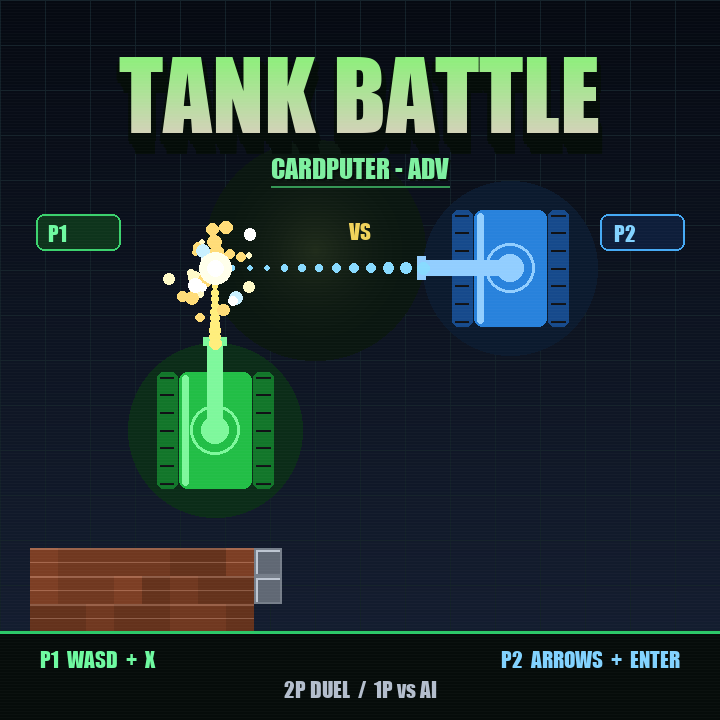
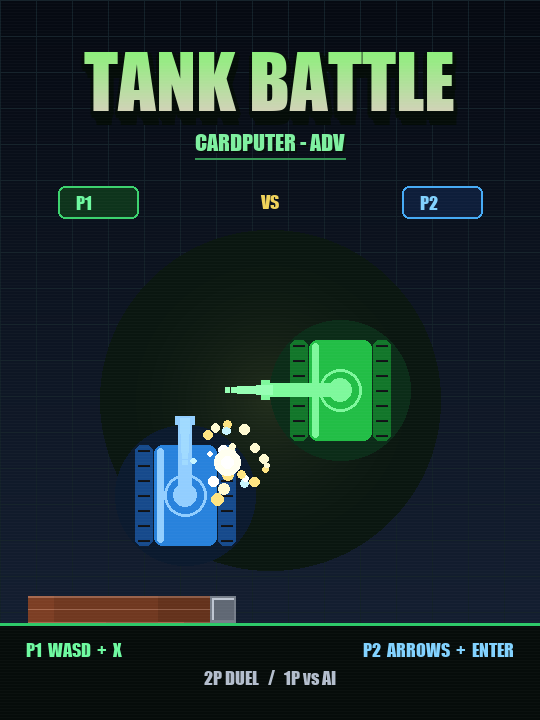
Update cover: vertical 540x720 layout, fix trajectory direction
- Resize cover to 3:4 vertical format for M5Burner
- Bullets now travel along barrel direction (P1 left, P2 up)
- Square bullet particles for better visibility

diff --git a/make_cover.py b/make_cover.py
@@ -1,73 +1,61 @@
 # -*- coding: utf-8 -*-
 """
-Tank Battle - Cardputer ADV  封面
-720x720 (M5Burner 封面规格)
-双人对战主题: 绿坦克 vs 蓝坦克
+Tank Battle - Cardputer ADV  封面 (竖版 540x720)
+M5Burner 封面框为竖版比例
 """
 from PIL import Image, ImageDraw, ImageFont
 import random, math, os
 
-W = H = 720
+W, H = 540, 720
 img = Image.new("RGB", (W, H), (8, 10, 16))
 d = ImageDraw.Draw(img)
 
 # ---------------- 背景渐变 ----------------
 for y in range(H):
     t = y / H
-    r = int(6 + 16 * t)
-    g = int(10 + 22 * t)
-    b = int(18 + 34 * t)
-    d.line([(0, y), (W, y)], fill=(r, g, b))
+    d.line([(0, y), (W, y)], fill=(int(6 + 16 * t), int(10 + 24 * t), int(18 + 36 * t)))
 
 # 战术网格
-for x in range(0, W, 45):
+for x in range(0, W, 36):
     d.line([(x, 0), (x, H)], fill=(18, 32, 40), width=1)
-for y in range(0, H, 45):
+for y in range(0, H, 36):
     d.line([(0, y), (W, y)], fill=(18, 32, 40), width=1)
 
-# 中央暖色光晕（小而柔和，只衬托子弹交汇点）
-_glow_r = 110
-for _i in range(_glow_r, 0, -2):
-    _t = 1 - _i / _glow_r
-    _a = int(22 * _t * _t)
-    d.ellipse([315 - _i, 250 - _i, 315 + _i, 250 + _i],
+# 中央光晕
+_gr = 170
+for _i in range(_gr, 0, -2):
+    _t = 1 - _i / _gr
+    _a = int(24 * _t * _t)
+    d.ellipse([W // 2 - _i, 400 - _i, W // 2 + _i, 400 + _i],
               fill=(10 + _a, 22 + _a, 16 + _a // 2))
 
 
 # ---------------- 绘制函数 ----------------
-def draw_tank(d, cx, cy, s, body, body2, barrel, facing="up", glow=None):
-    """绘制坦克 (俯视)"""
+def draw_tank(cx, cy, s, body, body2, barrel, facing="up", glow=None):
     if glow:
-        d.ellipse([cx - s * 1.5, cy - s * 1.5, cx + s * 1.5, cy + s * 1.5], fill=glow)
+        d.ellipse([cx - s * 1.4, cy - s * 1.4, cx + s * 1.4, cy + s * 1.4], fill=glow)
 
-    # 履带
     tw_ = s * 0.34
     tl_h = s * 1.0
     d.rounded_rectangle([cx - s, cy - tl_h, cx - s + tw_, cy + tl_h], radius=6, fill=body2)
     d.rounded_rectangle([cx + s - tw_, cy - tl_h, cx + s, cy + tl_h], radius=6, fill=body2)
 
-    # 履带纹
     n = 7
     for i in range(n):
         yy = cy - tl_h + 5 + i * (2 * tl_h - 10) / (n - 1)
         d.line([(cx - s + 3, yy), (cx - s + tw_ - 3, yy)], fill=(16, 18, 22), width=2)
         d.line([(cx + s - tw_ + 3, yy), (cx + s - 3, yy)], fill=(16, 18, 22), width=2)
 
-    # 车体
     bw = s * 0.62
     d.rounded_rectangle([cx - bw, cy - tl_h, cx + bw, cy + tl_h], radius=8, fill=body)
-    # 车体高光
     d.rounded_rectangle([cx - bw + 3, cy - tl_h + 3, cx - bw + 9, cy + tl_h - 3],
                         radius=3, fill=barrel)
 
-    # 炮塔
     tr = s * 0.42
     d.ellipse([cx - tr, cy - tr, cx + tr, cy + tr], fill=body, outline=barrel, width=3)
-    d.ellipse([cx - tr * 0.55, cy - tr * 0.55, cx + tr * 0.55, cy + tr * 0.55],
-              fill=barrel)
+    d.ellipse([cx - tr * 0.55, cy - tr * 0.55, cx + tr * 0.55, cy + tr * 0.55], fill=barrel)
 
-    # 炮管
-    bl = s * 1.5
+    bl = s * 1.45
     bwid = s * 0.13
     if facing == "up":
         d.rectangle([cx - bwid, cy - bl, cx + bwid, cy - tr * 0.5], fill=barrel)
@@ -78,12 +66,12 @@ def draw_tank(d, cx, cy, s, body, body2, barrel, facing="up", glow=None):
     elif facing == "left":
         d.rectangle([cx - bl, cy - bwid, cx - tr * 0.5, cy + bwid], fill=barrel)
         d.rectangle([cx - bl - 6, cy - bwid * 1.5, cx - bl + 2, cy + bwid * 1.5], fill=barrel)
-    else:  # down
+    else:
         d.rectangle([cx - bwid, cy + tr * 0.5, cx + bwid, cy + bl], fill=barrel)
         d.rectangle([cx - bwid * 1.5, cy + bl - 2, cx + bwid * 1.5, cy + bl + 6], fill=barrel)
 
 
-def draw_brick(d, x, y, s, seed=0):
+def draw_brick(x, y, s, seed=0):
     random.seed(seed)
     base = random.choice([(112, 56, 32), (124, 62, 36), (100, 50, 28)])
     hi = tuple(min(255, c + 42) for c in base)
@@ -92,91 +80,84 @@ def draw_brick(d, x, y, s, seed=0):
     d.line([(x, y + s // 2), (x + s - 1, y + s // 2)], fill=hi, width=1)
 
 
-def draw_steel(d, x, y, s):
+def draw_steel(x, y, s):
     d.rectangle([x, y, x + s - 1, y + s - 1], fill=(118, 126, 138))
     d.rectangle([x + 2, y + 2, x + s - 3, y + s - 3], fill=(96, 104, 116))
     d.line([(x + 2, y + 2), (x + s - 3, y + 2)], fill=(190, 198, 210), width=2)
     d.line([(x + 2, y + 2), (x + 2, y + s - 3)], fill=(190, 198, 210), width=2)
 
 
-# ---------------- 地面砖墙 ----------------
-BS = 28
-for row in range(3):
-    for col in range(8):
-        bx = 30 + col * BS
-        by = 548 + row * BS
-        if by + BS > 686:
+# ---------------- 砖墙 ----------------
+BS = 26
+for row in range(2):
+    for col in range(7):
+        bx = 28 + col * BS
+        by = 596 + row * BS
+        if by + BS > 700:
             continue
-        draw_brick(d, bx, by, BS, seed=row * 13 + col)
-
-# 钢墙点缀
+        draw_brick(bx, by, BS, seed=row * 11 + col)
 for k in range(2):
-    sx = 30 + 8 * BS
-    sy = 548 + k * BS
-    if sx < W - 40:
-        draw_steel(d, sx, sy, BS)
+    sx, sy = 28 + 7 * BS, 596 + k * BS
+    if sx < W - 30:
+        draw_steel(sx, sy, BS)
 
 
 # ---------------- 双坦克 ----------------
-# 绿坦克 (P1) 左下, 朝上
-draw_tank(d, 215, 430, 58, (34, 190, 70), (18, 118, 42), (126, 248, 156),
-          facing="up", glow=(11, 44, 24))
+# 绿坦克 P1: 右上, 朝左
+draw_tank(340, 390, 50, (34, 190, 70), (18, 118, 42), (126, 248, 156),
+          facing="left", glow=(11, 44, 24))
+# 蓝坦克 P2: 左下, 朝上
+draw_tank(185, 495, 50, (40, 130, 220), (22, 74, 140), (146, 206, 255),
+          facing="up", glow=(11, 26, 46))
 
-# 蓝坦克 (P2) 右上, 朝左
-draw_tank(d, 510, 268, 58, (40, 130, 220), (22, 74, 140), (146, 206, 255),
-          facing="left", glow=(11, 26, 46))
 
+# ---------------- 弹道(各自沿炮管方向) ----------------
+# 绿坦克 (340,390) 朝左: 炮口在左侧
+muzzle_green = (340 - 50 * 1.45, 390)
+# 蓝坦克 (185,495) 朝上: 炮口在上方
+muzzle_blue = (185, 495 - 50 * 1.45)
 
-# ---------------- 弹道（沿炮管方向，符合物理） ----------------
-# 绿坦克朝上: 子弹从炮口竖直向上飞
-muzzle_p1 = (215, 430 - 58 * 1.5)
-# 蓝坦克朝左: 子弹从炮口水平向左飞
-muzzle_p2 = (510 - 58 * 1.5, 268)
+# 两条弹道在 (260, 390) 交汇: 绿朝左x递减, 蓝朝上y递减
+hit_x = muzzle_green[0] - 40
+hit_y = muzzle_blue[1] + 40
 
-# 两条弹道在 (215, 268) 附近相交 —— 各自按炮管方向直线延伸
-# P1: x=215 固定, y 从 muzzle_p1[1] 递减
-# P2: y=268 固定, x 从 muzzle_p2[0] 递减
-# 取相遇点为 P1 竖直线上 y=268 那点
-hit_x = 215
-hit_y = 268
+# 绿: 水平向左 - 方形子弹颗粒
+for i in range(7):
+    t = i / 6
+    x = muzzle_green[0] + (hit_x - muzzle_green[0]) * t
+    hw = 4.5 - i * 0.35
+    d.rectangle([x - hw, muzzle_green[1] - hw, x + hw, muzzle_green[1] + hw],
+                fill=(150, 255, 180))
 
-for i in range(13):
-    t = i / 12
-    y = muzzle_p1[1] + (hit_y - muzzle_p1[1]) * t
-    rr = 6 - i * 0.35
-    d.ellipse([hit_x - rr, y - rr, hit_x + rr, y + rr], fill=(255, 238, 124))
+# 蓝: 竖直向上 - 方形子弹颗粒
+for i in range(7):
+    t = i / 6
+    y = muzzle_blue[1] + (hit_y - muzzle_blue[1]) * t
+    hw = 4.5 - i * 0.35
+    d.rectangle([muzzle_blue[0] - hw, y - hw, muzzle_blue[0] + hw, y + hw],
+                fill=(160, 218, 255))
 
-for i in range(13):
-    t = i / 12
-    x = muzzle_p2[0] + (hit_x - muzzle_p2[0]) * t
-    rr = 6 - i * 0.35
-    d.ellipse([x - rr, hit_y - rr, x + rr, hit_y + rr], fill=(136, 218, 255))
-
-mid = (hit_x, hit_y)
-
-# 中央碰撞火花
-hx, hy = mid
-random.seed(99)
-for i in range(30):
+hx, hy = hit_x, hit_y
+random.seed(77)
+for i in range(26):
     ang = random.uniform(0, math.tau)
-    dist = random.uniform(6, 52)
+    dist = random.uniform(5, 40)
     x = hx + math.cos(ang) * dist
     y = hy + math.sin(ang) * dist
-    r = random.uniform(2.5, 7)
-    col = random.choice([(255, 250, 200), (255, 220, 120),
-                         (200, 240, 255), (255, 255, 255)])
+    r = random.uniform(2, 6)
+    col = random.choice([(255, 250, 210), (255, 228, 130),
+                         (200, 245, 255), (255, 255, 255)])
     d.ellipse([x - r, y - r, x + r, y + r], fill=col)
-d.ellipse([hx - 16, hy - 16, hx + 16, hy + 16], fill=(255, 255, 235))
-d.ellipse([hx - 8, hy - 8, hx + 8, hy + 8], fill=(255, 255, 255))
+d.ellipse([hx - 13, hy - 13, hx + 13, hy + 13], fill=(255, 255, 240))
+d.ellipse([hx - 6, hy - 6, hx + 6, hy + 6], fill=(255, 255, 255))
 
 
 # ---------------- 字体 ----------------
 def font(size):
-    cands = ["C:/Windows/Fonts/impact.ttf",
-             "C:/Windows/Fonts/ariblk.ttf",
-             "C:/Windows/Fonts/arialbd.ttf",
-             "C:/Windows/Fonts/arial.ttf"]
-    for c in cands:
+    for c in ["C:/Windows/Fonts/impact.ttf",
+              "C:/Windows/Fonts/ariblk.ttf",
+              "C:/Windows/Fonts/arialbd.ttf",
+              "C:/Windows/Fonts/arial.ttf"]:
         if os.path.exists(c):
             try:
                 return ImageFont.truetype(c, size)
@@ -185,89 +166,79 @@ def font(size):
     return ImageFont.load_default()
 
 
-f_title = font(96)
-f_sub = font(26)
-f_small = font(21)
+f_title = font(74)
+f_sub = font(22)
+f_small = font(18)
 
 # ---------------- 标题 ----------------
 title = "TANK BATTLE"
 tw = d.textlength(title, font=f_title)
 tx = (W - tw) / 2
-ty = 44
+ty = 40
 
-# 黑色描边 + 投影
 for dx, dy in [(-3, -3), (3, -3), (-3, 3), (3, 3),
-               (-4, 0), (4, 0), (0, -4), (0, 6),
+               (-4, 0), (4, 0), (0, -4), (0, 5),
                (-2, -2), (2, -2), (-2, 2), (2, 2)]:
     d.text((tx + dx, ty + dy), title, font=f_title, fill=(4, 12, 8))
-# 底部投影
-for i in range(1, 7):
-    d.text((tx + i * 0.6, ty + i * 2.2), title, font=f_title, fill=(4, 12, 8))
+for i in range(1, 6):
+    d.text((tx + i * 0.5, ty + i * 2.0), title, font=f_title, fill=(4, 12, 8))
 
-# 渐变填充
-grad = Image.new("RGB", (int(tw) + 12, 120), (0, 0, 0))
+grad = Image.new("RGB", (int(tw) + 10, 96), (0, 0, 0))
 gd = ImageDraw.Draw(grad)
-for y in range(120):
-    t = y / 120
+for y in range(96):
+    t = y / 96
     gd.line([(0, y), (grad.width, y)],
             fill=(int(126 + 110 * t), int(246 - 46 * t), int(110 + 96 * t)))
 mask = Image.new("L", grad.size, 0)
-ImageDraw.Draw(mask).text((6, -4), title, font=f_title, fill=255)
-img.paste(grad, (int(tx) - 6, int(ty) - 4), mask)
+ImageDraw.Draw(mask).text((5, -2), title, font=f_title, fill=255)
+img.paste(grad, (int(tx) - 5, int(ty) - 2), mask)
 d = ImageDraw.Draw(img)
 
 # ---------------- 副标题 ----------------
 sub = "CARDPUTER - ADV"
 sw = d.textlength(sub, font=f_sub)
 sx = (W - sw) / 2
-sy = 152
+sy = 128
 d.text((sx + 2, sy + 2), sub, font=f_sub, fill=(6, 14, 10))
 d.text((sx, sy), sub, font=f_sub, fill=(126, 240, 160))
-d.line([(sx, sy + 34), (sx + sw, sy + 34)], fill=(52, 150, 84), width=2)
+d.line([(sx, sy + 30), (sx + sw, sy + 30)], fill=(52, 150, 84), width=2)
 
-# ---------------- 双人标识 ----------------
-# 左: P1 绿色徽标
-d.rounded_rectangle([36, 214, 120, 250], radius=8, fill=(14, 52, 28),
+# ---------------- P1 / VS / P2 ----------------
+d.rounded_rectangle([58, 186, 138, 218], radius=7, fill=(14, 52, 28),
                     outline=(60, 210, 110), width=2)
-d.text((48, 220), "P1", font=f_small, fill=(110, 250, 160))
+d.text((76, 191), "P1", font=f_small, fill=(110, 250, 160))
 
-# 右: P2 蓝色徽标
-d.rounded_rectangle([W - 120, 214, W - 36, 250], radius=8, fill=(14, 30, 58),
+d.rounded_rectangle([W - 138, 186, W - 58, 218], radius=7, fill=(14, 30, 58),
                     outline=(70, 170, 245), width=2)
-d.text((W - 106, 220), "P2", font=f_small, fill=(130, 210, 255))
+d.text((W - 120, 191), "P2", font=f_small, fill=(130, 210, 255))
 
-# 中间 VS
 vs = "VS"
 vw = d.textlength(vs, font=f_small)
-d.text(((W - vw) / 2, 218), vs, font=f_small, fill=(240, 210, 90))
+d.text(((W - vw) / 2, 190), vs, font=f_small, fill=(240, 210, 90))
 
-# ---------------- 操作提示条 ----------------
-d.rectangle([0, H - 88, W, H], fill=(6, 12, 10))
-d.line([(0, H - 88), (W, H - 88)], fill=(44, 200, 104), width=3)
+# ---------------- 底部信息条 ----------------
+d.rectangle([0, H - 96, W, H], fill=(6, 12, 10))
+d.line([(0, H - 96), (W, H - 96)], fill=(44, 200, 104), width=3)
 
-# 操作说明
-lines = [
-    ("P1: WASD + X", (110, 250, 155)),
-    ("P2: ARROWS + ENTER", (130, 210, 255)),
-]
-# 两列
-d.text((40, H - 74), "P1  WASD  +  X", font=f_small, fill=(110, 250, 160))
-rx = W - 40 - d.textlength("P2  ARROWS  +  ENTER", font=f_small)
-d.text((rx, H - 74), "P2  ARROWS  +  ENTER", font=f_small, fill=(130, 210, 255))
-d.text(((W - d.textlength("2P DUEL  /  1P vs AI", font=f_small)) / 2, H - 44),
-       "2P DUEL  /  1P vs AI", font=f_small, fill=(180, 190, 205))
+d.text((26, H - 82), "P1  WASD  +  X", font=f_small, fill=(110, 250, 160))
+rx = W - 26 - d.textlength("P2  ARROWS  +  ENTER", font=f_small)
+d.text((rx, H - 82), "P2  ARROWS  +  ENTER", font=f_small, fill=(130, 210, 255))
+
+mode_txt = "2P DUEL   /   1P vs AI"
+mw = d.textlength(mode_txt, font=f_small)
+d.text(((W - mw) / 2, H - 54), mode_txt, font=f_small, fill=(180, 190, 205))
 
 # ---------------- 扫描线 ----------------
 overlay = Image.new("RGB", (W, H), (0, 0, 0))
 od = ImageDraw.Draw(overlay)
 for y in range(0, H, 3):
     od.line([(0, y), (W, y)], fill=(255, 255, 255))
-mask_scan = overlay.convert("L").point(lambda v: 5 if v else 0)
-img = Image.composite(Image.new("RGB", (W, H), (255, 255, 255)), img, mask_scan)
+img = Image.composite(Image.new("RGB", (W, H), (255, 255, 255)), img,
+                      overlay.convert("L").point(lambda v: 5 if v else 0))
 
 # ---------------- 输出 ----------------
 out = r"D:\Administrator\Documents\CardputerAdv_Tank\cover.png"
 img.save(out, "PNG")
-img.resize((480, 480), Image.LANCZOS).save(
+img.resize((405, 540), Image.LANCZOS).save(
     r"D:\Administrator\Documents\CardputerAdv_Tank\cover_preview.png", "PNG")
 print("saved", out, img.size)
